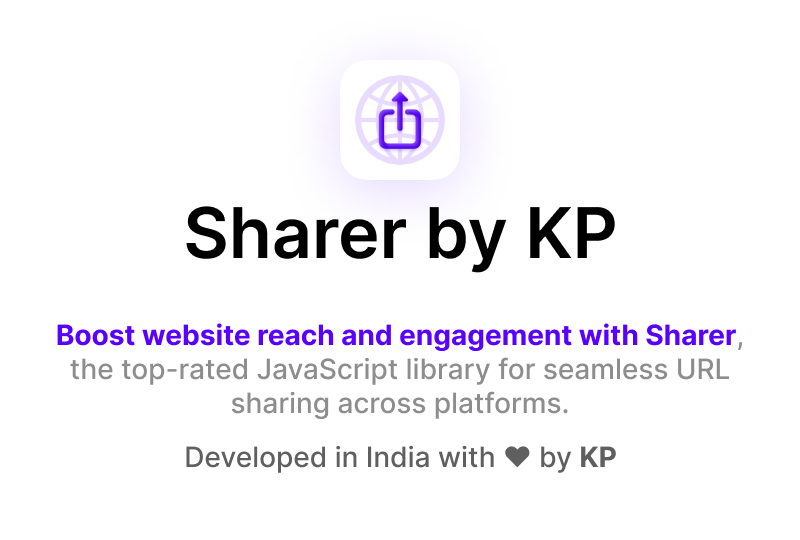
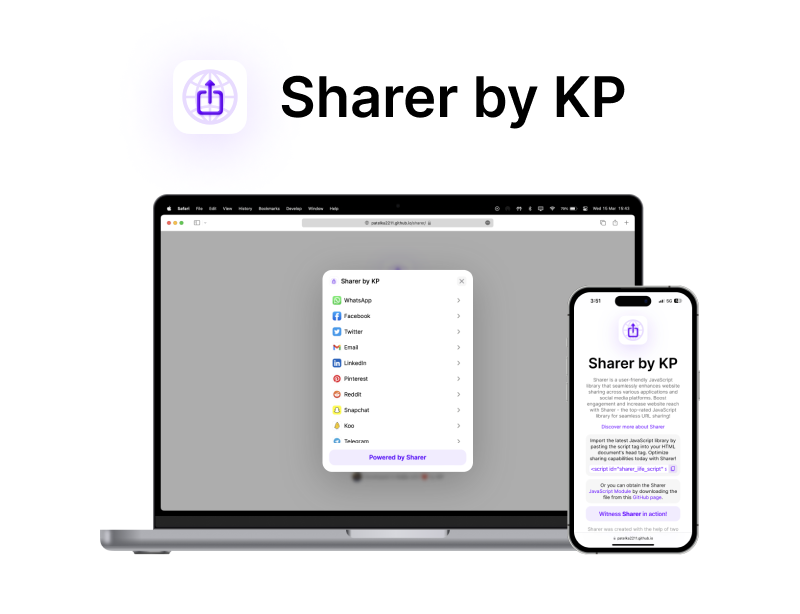
Made new opengraph and preview image.

diff --git a/website-stuff/style.css b/website-stuff/style.css
@@ -1,1 +1,1 @@
-@import"https://fonts.googleapis.com/css2?family=Inter:wght@400;500;600;700&display=swap";body{font-family:"Inter",sans-serif;margin:0;display:flex;flex-direction:column;align-items:center;justify-content:space-around;min-width:100vw;min-height:100vh}body #main-container{width:80%;max-width:460px;padding:20px;display:flex;flex-direction:column;align-items:center}body #main-container #sharer-icon{width:96px;aspect-ratio:1;box-shadow:0 16px 64px 0 rgba(89,0,255,.16);border-radius:22px;margin-bottom:32px}body #main-container #sharer-title{margin:0;margin-bottom:16px;padding:0;font-size:48px;font-weight:600;text-align:center}body #main-container #sharer-description{margin:0;margin-bottom:16px;padding:0;color:#5f5f5f;text-align:center}body #main-container #notion-link{margin:0;padding:0;text-align:center;color:#5900ff;margin-bottom:16px;text-decoration:none}body #main-container .js-files{width:calc(100% - 20px);margin-bottom:10px;padding:10px;display:flex;flex-direction:column;align-items:center;border-radius:16px;background-color:#f6f6f6}body #main-container .js-files .file-info{margin:0;text-align:center}body #main-container .js-files .file-info .highlight{text-decoration:none;color:#5900ff}body #main-container .js-files .content-for-copy{width:100%;display:flex;margin-top:10px;flex-direction:row;align-items:center}body #main-container .js-files .content-for-copy .file-location{border:none;width:calc(100% - 32px);height:15px;outline:0;padding:0;border-radius:0;border-bottom-left-radius:8px;border-top-left-radius:8px;color:#5900ff;font-size:18px;border:1px solid rgba(89,0,255,.08);padding:6px}body #main-container .js-files .content-for-copy .file-location:focus{border:1px solid rgba(89,0,255,.32)}body #main-container .js-files .content-for-copy .copy-btn{padding:0;border:none;width:30px;aspect-ratio:1;background-color:rgba(89,0,255,.08);border-radius:0;border-top-right-radius:8px;border-bottom-right-radius:8px;display:flex;flex-direction:column;align-items:center;justify-content:space-around}body #main-container .js-files .content-for-copy .copy-btn:hover{cursor:pointer}body #main-container #sharer-in-action{width:100%;height:50px;font-size:20px;margin-bottom:16px;border:none;border-radius:16px;background-color:rgba(89,0,255,.08);color:#5900ff;font-weight:500}body #main-container #sharer-in-action:hover{cursor:pointer}body #main-container #special-thanks{margin:0;padding:0;margin-bottom:16px;text-align:center;color:#8d8d8d}body #main-container #special-thanks .highlight{color:#5900ff;text-decoration:none}body #main-container #developer-credits{display:flex;flex-direction:row;align-items:center;text-decoration:none}body #main-container #developer-credits #kp-img{width:30px;aspect-ratio:1;margin-right:8px;border-radius:15px}body #main-container #developer-credits #developed-by-kp{color:#8d8d8d;margin:0;padding:0;text-align:center}
+@import"https://fonts.googleapis.com/css2?family=Inter:wght@400;500;600;700&display=swap";body{font-family:"Inter",sans-serif;margin:0;display:flex;flex-direction:column;align-items:center;justify-content:space-around;min-width:100vw;min-height:100vh}body #main-container{width:80%;max-width:460px;padding:20px;display:flex;flex-direction:column;align-items:center}body #main-container #sharer-icon{width:96px;aspect-ratio:1;box-shadow:0 16px 64px 0 rgba(89,0,255,.16);border-radius:22px;margin-bottom:32px}body #main-container #sharer-title{margin:0;margin-bottom:16px;padding:0;font-size:48px;font-weight:600;text-align:center}body #main-container #sharer-preview-img{width:84%;margin-bottom:32px}body #main-container #sharer-description{margin:0;margin-bottom:16px;padding:0;color:#5f5f5f;text-align:center}body #main-container #notion-link{margin:0;padding:0;text-align:center;color:#5900ff;margin-bottom:16px;text-decoration:none}body #main-container .js-files{width:calc(100% - 20px);margin-bottom:10px;padding:10px;display:flex;flex-direction:column;align-items:center;border-radius:16px;background-color:#f6f6f6}body #main-container .js-files .file-info{margin:0;text-align:center}body #main-container .js-files .file-info .highlight{text-decoration:none;color:#5900ff}body #main-container .js-files .content-for-copy{width:100%;display:flex;margin-top:10px;flex-direction:row;align-items:center}body #main-container .js-files .content-for-copy .file-location{border:none;width:calc(100% - 32px);height:15px;outline:0;padding:0;border-radius:0;border-bottom-left-radius:8px;border-top-left-radius:8px;color:#5900ff;font-size:18px;border:1px solid rgba(89,0,255,.08);padding:6px}body #main-container .js-files .content-for-copy .file-location:focus{border:1px solid rgba(89,0,255,.32)}body #main-container .js-files .content-for-copy .copy-btn{padding:0;border:none;width:30px;aspect-ratio:1;background-color:rgba(89,0,255,.08);border-radius:0;border-top-right-radius:8px;border-bottom-right-radius:8px;display:flex;flex-direction:column;align-items:center;justify-content:space-around}body #main-container .js-files .content-for-copy .copy-btn:hover{cursor:pointer}body #main-container #sharer-in-action{width:100%;height:50px;font-size:20px;margin-bottom:16px;border:none;border-radius:16px;background-color:rgba(89,0,255,.08);color:#5900ff;font-weight:500}body #main-container #sharer-in-action:hover{cursor:pointer}body #main-container #special-thanks{margin:0;padding:0;margin-bottom:16px;text-align:center;color:#8d8d8d}body #main-container #special-thanks .highlight{color:#5900ff;text-decoration:none}body #main-container #developer-credits{display:flex;flex-direction:row;align-items:center;text-decoration:none}body #main-container #developer-credits #kp-img{width:30px;aspect-ratio:1;margin-right:8px;border-radius:15px}body #main-container #developer-credits #developed-by-kp{color:#8d8d8d;margin:0;padding:0;text-align:center}

diff --git a/index.html b/index.html
@@ -44,6 +44,7 @@
     <div id="main-container">
         <img id="sharer-icon" src="./assets/sharerIcon.svg" alt="Sharer Icon">
         <h1 id="sharer-title">Sharer by KP</h1>
+        <img id="sharer-preview-img" src="./assets/sharer-preview-mac-iphone.png" alt="Sharer preview">
         <p id="sharer-description">Sharer is a user-friendly JavaScript library that seamlessly enhances website sharing
             across various applications and social media platforms. Boost engagement and increase website reach with
             Sharer - the top-rated JavaScript library for seamless URL sharing!</p>

diff --git a/website-stuff/style.scss b/website-stuff/style.scss
@@ -34,6 +34,11 @@ body {
             text-align: center;
         }
 
+        #sharer-preview-img {
+            width: 84%;
+            margin-bottom: 32px;
+        }
+
         #sharer-description {
             margin: 0;
             margin-bottom: 16px;
